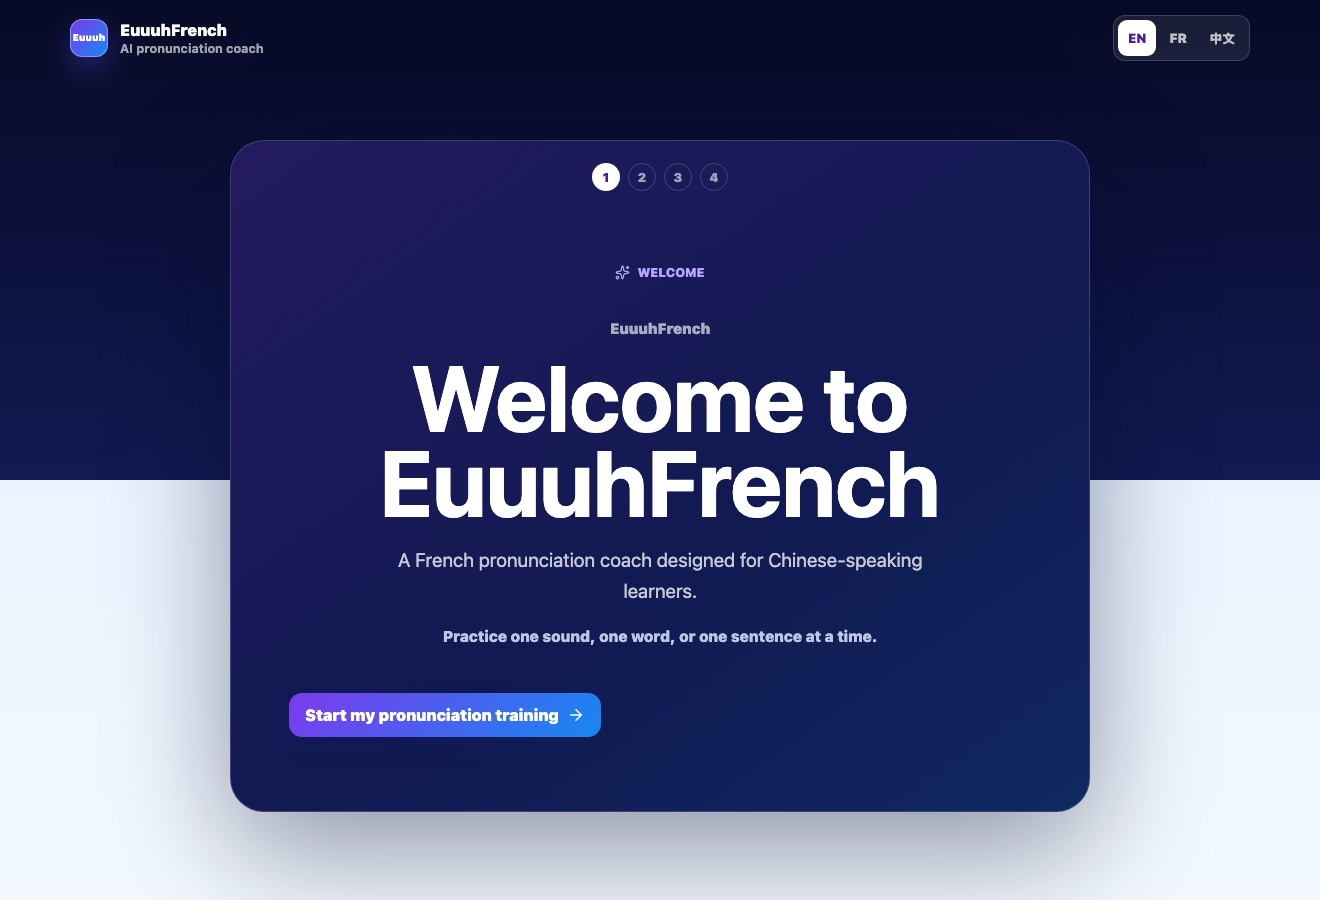
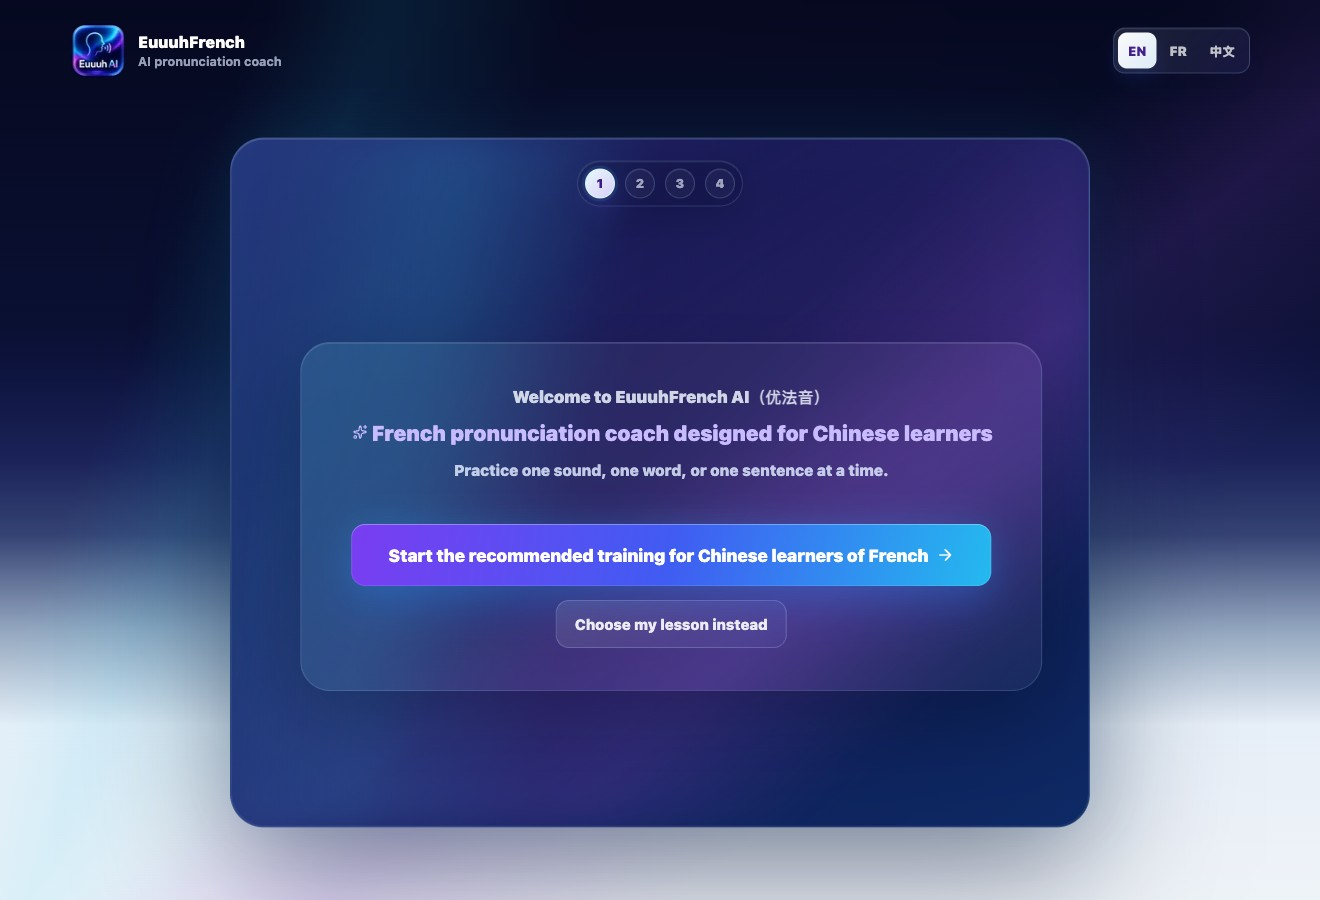
Update EuuuhAI branding and software previews

diff --git a/software.html b/software.html
@@ -4,18 +4,18 @@
   <meta charset="utf-8">
   <meta name="viewport" content="width=device-width, initial-scale=1">
   <meta name="theme-color" content="#0b1220">
-  <meta name="description" content="SIFAKS © Software presents EuuuhFrench, a prototype preview by Sifaks Ousmail for AI-assisted French pronunciation support for Chinese learners of French, connected to applied linguistics, language education, and second language acquisition.">
-  <meta property="og:title" content="SIFAKS © Software | EuuuhFrench">
-  <meta property="og:description" content="EuuuhFrench is an in-development SIFAKS © Software prototype by Sifaks Ousmail for AI-assisted French pronunciation, Chinese learners of French, applied linguistics, language education, and second language acquisition.">
+  <meta name="description" content="SIFAKS © Software presents EuuuhAI for French, a prototype preview by Sifaks Ousmail for AI-assisted French pronunciation training for Chinese native speakers learning French, connected to applied linguistics, language education, and second language acquisition.">
+  <meta property="og:title" content="SIFAKS © Software | EuuuhAI for French">
+  <meta property="og:description" content="EuuuhAI for French is an in-development SIFAKS © Software prototype by Sifaks Ousmail for AI-assisted French pronunciation training, Chinese native speakers learning French, applied linguistics, language education, and second language acquisition.">
   <meta property="og:image" content="https://sifaks.com/favicon.png">
   <meta property="og:type" content="website">
   <meta property="og:url" content="https://sifaks.com/software.html">
   <meta property="og:site_name" content="Sifaks Ousmail">
   <meta name="twitter:card" content="summary">
-  <meta name="twitter:title" content="SIFAKS © Software | EuuuhFrench">
-  <meta name="twitter:description" content="Prototype preview of EuuuhFrench, an AI-assisted French pronunciation tool for Chinese learners of French by Sifaks Ousmail.">
+  <meta name="twitter:title" content="SIFAKS © Software | EuuuhAI for French">
+  <meta name="twitter:description" content="Prototype preview of EuuuhAI for French, an AI-assisted French pronunciation training tool for Chinese native speakers by Sifaks Ousmail.">
   <meta name="twitter:image" content="https://sifaks.com/favicon.png">
-  <title>SIFAKS © Software | EuuuhFrench</title>
+  <title>SIFAKS © Software | EuuuhAI for French</title>
   <link rel="canonical" href="https://sifaks.com/software.html">
   <link rel="icon" href="/favicon.ico" sizes="any">
   <link rel="icon" type="image/png" sizes="32x32" href="/favicon-32x32.png">
@@ -64,7 +64,7 @@
               <a class="drop-item" href="france.html"><span class="flag" aria-hidden="true">🇫🇷</span> France</a>
               <a class="software-drop-cta" href="software.html" aria-current="page">
                 <span class="software-drop-main" data-i18n="nav.softwareCtaTitle">SIFAKS © Software</span>
-                <span class="software-drop-sub" data-i18n="nav.softwareCtaSub">Pronunciation for Chinese learners of French</span>
+                <span class="software-drop-sub" data-i18n="nav.softwareCtaSub">AI French pronunciation for Chinese speakers</span>
               </a>
             </div>
           </div>
@@ -76,9 +76,9 @@
       <header class="hero software-hero">
         <img class="hero-logo" data-no-translate src="/favicon.svg" alt="Sifaks Ousmail logo">
         <h1 class="software-title" data-no-translate>SIFAKS <span class="legal-mark">©</span> Software</h1>
-        <p class="software-product-name" data-no-translate>EuuuhFrench</p>
+        <p class="software-product-name" data-no-translate>EuuuhAI for French</p>
         <div class="pill"><span class="pill-dot"></span><span data-i18n="software.status">Prototype preview · In development</span></div>
-        <p class="lead" data-i18n="software.subtitle">EuuuhFrench — AI-assisted French pronunciation support for Chinese learners</p>
+        <p class="lead" data-i18n="software.subtitle">EuuuhAI for French — AI-assisted French pronunciation training for Chinese native speakers learning French</p>
         <div class="actions">
           <a class="btn btn-primary" href="#preview" data-i18n="software.viewPreview">View preview</a>
           <a class="btn btn-secondary" href="projects.html#software" data-i18n="software.backProjects">Back to projects</a>
@@ -91,7 +91,7 @@
             <p class="kicker" data-i18n="software.aboutKicker">About the project</p>
             <h2 data-i18n="software.aboutTitle">Experimental pronunciation support</h2>
           </div>
-          <p class="section-note" data-i18n="software.aboutText">EuuuhFrench is an experimental language learning tool by Sifaks Ousmail. It explores how AI-assisted feedback, applied linguistics, and language education can support Chinese learners of French pronunciation.</p>
+          <p class="section-note" data-i18n="software.aboutText">EuuuhAI for French is an experimental language learning tool by Sifaks Ousmail. It explores how AI-assisted feedback, applied linguistics, and language education can support French pronunciation training for Chinese native speakers.</p>
         </div>
       </section>
 
@@ -113,8 +113,8 @@
             <p data-i18n="software.cardFeedbackDesc">Exploring how automated feedback can guide learners without replacing teaching or research judgment.</p>
           </article>
           <article class="country-card glass">
-            <p class="edu-degree" data-i18n="software.cardLearners">Chinese learners of French</p>
-            <p data-i18n="software.cardLearnersDesc">Designed around challenges that can appear when Chinese-speaking learners work on French pronunciation.</p>
+            <p class="edu-degree" data-i18n="software.cardLearners">Chinese native speakers learning French</p>
+            <p data-i18n="software.cardLearnersDesc">Designed around challenges that can appear when Chinese native speakers work on French pronunciation.</p>
           </article>
           <article class="country-card glass">
             <p class="edu-degree" data-i18n="software.cardApplied">Applied linguistics and language education</p>
@@ -129,27 +129,27 @@
             <p class="kicker" data-i18n="software.previewKicker">Concept preview</p>
             <h2 data-i18n="software.previewTitle">Prototype learning interface</h2>
           </div>
-          <p class="section-note" data-i18n="software.previewNote">This static preview reflects the EuuuhFrench prototype direction, not a final public release.</p>
+          <p class="section-note" data-i18n="software.previewNote">This static preview reflects the EuuuhAI for French prototype direction, not a final public release.</p>
         </div>
-        <div class="software-preview glass" aria-label="EuuuhFrench prototype preview gallery">
+        <div class="software-preview glass" aria-label="EuuuhAI for French prototype preview gallery">
           <div class="preview-gallery-grid">
             <figure class="preview-gallery-item preview-gallery-main">
               <div class="preview-gallery-frame">
-                <img src="assets/software/euuuhfrench/euuuhfrench-home-preview.jpg" width="1320" height="900" loading="lazy" alt="EuuuhFrench home screen preview" data-i18n-attr="alt:software.galleryHomeAlt">
+                <img src="assets/software/euuuhfrench/euuuhfrench-home-preview.jpg" width="1320" height="900" loading="lazy" alt="EuuuhAI for French English home screen preview" data-i18n-attr="alt:software.galleryHomeAlt">
               </div>
-              <figcaption data-i18n="software.galleryHome">Learning flow preview</figcaption>
+              <figcaption data-i18n="software.galleryHome">English interface preview</figcaption>
             </figure>
             <figure class="preview-gallery-item">
               <div class="preview-gallery-frame">
-                <img src="assets/software/euuuhfrench/euuuhfrench-practice-preview.jpg" width="1320" height="900" loading="lazy" alt="EuuuhFrench pronunciation practice and recording screen preview" data-i18n-attr="alt:software.galleryPracticeAlt">
+                <img src="assets/software/euuuhfrench/euuuhfrench-practice-preview.jpg" width="1320" height="900" loading="lazy" alt="EuuuhAI for French practice screen with word and microphone controls" data-i18n-attr="alt:software.galleryPracticeAlt">
               </div>
-              <figcaption data-i18n="software.galleryPractice">Practice and recording interface</figcaption>
+              <figcaption data-i18n="software.galleryPractice">Word practice and microphone preview</figcaption>
             </figure>
             <figure class="preview-gallery-item">
               <div class="preview-gallery-frame">
-                <img src="assets/software/euuuhfrench/euuuhfrench-feedback-preview.jpg" width="1320" height="900" loading="lazy" alt="EuuuhFrench feedback guidance screen preview" data-i18n-attr="alt:software.galleryFeedbackAlt">
+                <img src="assets/software/euuuhfrench/euuuhfrench-feedback-preview.jpg" width="1320" height="900" loading="lazy" alt="EuuuhAI for French Chinese feedback page preview" data-i18n-attr="alt:software.galleryFeedbackAlt">
               </div>
-              <figcaption data-i18n="software.galleryFeedback">AI-assisted feedback preview</figcaption>
+              <figcaption data-i18n="software.galleryFeedback">Feedback guidance preview</figcaption>
             </figure>
           </div>
           <p class="preview-disclaimer" data-i18n="software.mockDisclaimer">Static prototype preview · real pronunciation analysis is still in development.</p>
@@ -162,14 +162,14 @@
             <p class="kicker" data-i18n="software.researchKicker">Research connection</p>
             <h2 data-i18n="software.researchTitle">Language learning and research</h2>
           </div>
-          <p class="section-note" data-i18n="software.researchText">The project connects to second language acquisition, French as a foreign language, Chinese-speaking learners, pronunciation learning, and AI-supported language education.</p>
+          <p class="section-note" data-i18n="software.researchText">The project connects to second language acquisition, French as a foreign language, Chinese native speakers, pronunciation learning, and AI-supported language education.</p>
         </div>
         <div class="focus-band glass" aria-label="Software research connection">
           <p data-i18n="software.focusTitle">Connected areas</p>
           <div class="focus-tags">
             <span data-i18n="software.focusSla">Second Language Acquisition</span>
             <span data-i18n="software.focusFle">French as a Foreign Language</span>
-            <span data-i18n="software.focusChineseLearners">Chinese-speaking learners</span>
+            <span data-i18n="software.focusChineseLearners">Chinese native speakers</span>
             <span data-i18n="software.focusPronunciation">Pronunciation learning</span>
             <span data-i18n="software.focusAi">AI-supported language education</span>
           </div>
@@ -180,11 +180,14 @@
         <div class="development-status glass">
           <span class="card-kicker" data-i18n="software.statusKicker">Development status</span>
           <p data-i18n="software.statusText">This project is currently in development. The page presents the concept and early direction rather than a public release.</p>
-          <a class="software-app-link" href="https://app.sifaks.com" target="_blank" rel="noopener noreferrer" data-i18n-attr="aria-label:software.appLinkAria" aria-label="Open EuuuhFrench app preview at app.sifaks.com">
-            <span class="euuuh-app-mark" aria-hidden="true"><span data-no-translate>EF</span></span>
+          <a class="software-app-link" href="https://app.sifaks.com" target="_blank" rel="noopener noreferrer" data-i18n-attr="aria-label:software.appLinkAria" aria-label="Open EuuuhAI for French app preview at app.sifaks.com">
+            <span class="euuuh-app-mark" aria-hidden="true">
+              <img class="euuuh-logo-img euuuh-logo-en" src="assets/software/euuuhai/euuuhai-logo-en.png" alt="" width="512" height="512" loading="lazy">
+              <img class="euuuh-logo-img euuuh-logo-cn" src="assets/software/euuuhai/euuuhai-logo-cn.png" alt="" width="512" height="512" loading="lazy">
+            </span>
             <span class="software-app-copy">
-              <strong data-no-translate>EuuuhFrench</strong>
-              <span data-i18n="software.appLinkText">Open the app preview at app.sifaks.com →</span>
+              <strong data-no-translate>EuuuhAI</strong>
+              <span data-i18n="software.appLinkText">Open EuuuhAI for French at app.sifaks.com →</span>
             </span>
           </a>
         </div>

diff --git a/script.js b/script.js
@@ -48,7 +48,7 @@ const translationEntries = [
   ['nav.mainLinks', 'Main links', 'Liens principaux', '主要链接'],
   ['nav.internationalProfile', 'International Profile', 'Profil international', '国际简介'],
   ['nav.softwareCtaTitle', 'SIFAKS © Software', 'SIFAKS © Software', 'SIFAKS © Software'],
-  ['nav.softwareCtaSub', 'Pronunciation for Chinese learners of French', 'Prononciation pour apprenants chinois du français', '面向中文母语法语学习者的发音'],
+  ['nav.softwareCtaSub', 'AI French pronunciation for Chinese speakers', 'Prononciation française IA pour sinophones', '针对中文母语者的AI辅助法语发音训练工具'],
   ['country.china', 'China', 'Chine', '中国'],
   ['country.ukShort', 'UK', 'Royaume-Uni', '英国'],
   ['country.france', 'France', 'France', '法国'],
@@ -154,16 +154,16 @@ const translationEntries = [
   ['projects.multilingual', 'Multilingual Language Education', 'Éducation multilingue', '多语语言教育'],
   ['projects.multilingualDesc', 'Work connecting French, English, and Chinese language learning with broader questions in language education and applied linguistics.', 'Travail reliant l’apprentissage du français, de l’anglais et du chinois à des questions plus larges en éducation aux langues et linguistique appliquée.', '将法语、英语和中文学习与语言教育和应用语言学中的更广泛问题联系起来。'],
   ['projects.software', 'SIFAKS © Software', 'SIFAKS © Software', 'SIFAKS © Software'],
-  ['projects.softwareDesc', 'A short preview of EuuuhFrench, an in-development AI-assisted French pronunciation tool for Chinese learners of French, connected to applied linguistics and language education.', 'Un court aperçu d’EuuuhFrench, un outil de prononciation française assisté par l’IA en développement pour les apprenants chinois du français, relié à la linguistique appliquée et à l’éducation aux langues.', 'EuuuhFrench 的简短预览：一款正在开发中的 AI 辅助法语发音工具，面向中文母语的法语学习者，并与应用语言学和语言教育相关。'],
+  ['projects.softwareDesc', 'A short preview of EuuuhAI for French, an in-development AI-assisted French pronunciation training tool for Chinese native speakers, connected to applied linguistics and language education.', 'Un court aperçu d’EuuuhAI for French, un outil d’entraînement à la prononciation française assisté par l’IA pour les apprenants sinophones, relié à la linguistique appliquée et à l’éducation aux langues.', '优法音 AI（EuuuhAI for French）的简短预览：针对中文母语者的AI辅助法语发音训练工具，并与应用语言学和语言教育相关。'],
   ['projects.softwareLink', 'Open software preview →', 'Ouvrir l’aperçu logiciel →', '打开软件预览 →'],
   ['software.title', 'SIFAKS © Software', 'SIFAKS © Software', 'SIFAKS © Software'],
   ['software.status', 'Prototype preview · In development', 'Aperçu de prototype · En développement', '原型预览 · 开发中'],
-  ['software.subtitle', 'EuuuhFrench — AI-assisted French pronunciation support for Chinese learners', 'EuuuhFrench — soutien à la prononciation française assisté par l’IA pour les apprenants chinois', 'EuuuhFrench — 面向中文母语学习者的 AI 辅助法语发音支持'],
+  ['software.subtitle', 'EuuuhAI for French — AI-assisted French pronunciation training for Chinese native speakers learning French', 'EuuuhAI for French — entraînement à la prononciation française assisté par l’IA pour les apprenants sinophones', '优法音 AI（EuuuhAI for French）— 针对中文母语者的AI辅助法语发音训练工具'],
   ['software.viewPreview', 'View preview', 'Voir l’aperçu', '查看预览'],
   ['software.backProjects', 'Back to projects', 'Retour aux projets', '返回项目'],
   ['software.aboutKicker', 'About the project', 'À propos du projet', '项目介绍'],
   ['software.aboutTitle', 'Experimental pronunciation support', 'Soutien expérimental à la prononciation', '实验性发音支持'],
-  ['software.aboutText', 'EuuuhFrench is an experimental language learning tool by Sifaks Ousmail. It explores how AI-assisted feedback, applied linguistics, and language education can support Chinese learners of French pronunciation.', 'EuuuhFrench est un outil expérimental d’apprentissage des langues par Sifaks Ousmail. Il explore comment le feedback assisté par l’IA, la linguistique appliquée et l’éducation aux langues peuvent soutenir les apprenants chinois dans la prononciation du français.', 'EuuuhFrench 是 Sifaks Ousmail 开发的实验性语言学习工具，探索 AI 辅助反馈、应用语言学和语言教育如何支持中文母语学习者的法语发音。'],
+  ['software.aboutText', 'EuuuhAI for French is an experimental language learning tool by Sifaks Ousmail. It explores how AI-assisted feedback, applied linguistics, and language education can support French pronunciation training for Chinese native speakers.', 'EuuuhAI for French est un outil expérimental d’apprentissage des langues par Sifaks Ousmail. Il explore comment le feedback assisté par l’IA, la linguistique appliquée et l’éducation aux langues peuvent soutenir l’entraînement à la prononciation française des apprenants sinophones.', '优法音 AI（EuuuhAI for French）是 Sifaks Ousmail 开发的实验性语言学习工具，定位为针对中文母语者的AI辅助法语发音训练工具。'],
   ['software.aimsKicker', 'Learning support', 'Soutien à l’apprentissage', '学习支持'],
   ['software.aimsTitle', 'What it aims to help with', 'Ce que l’outil vise à soutenir', '它希望帮助的方面'],
   ['software.aimsNote', 'The prototype focuses on careful, research-informed pronunciation guidance rather than a public product launch.', 'Le prototype se concentre sur un accompagnement de prononciation prudent et informé par la recherche, plutôt que sur le lancement d’un produit public.', '该原型关注谨慎且基于研究的发音指导，而不是公开产品发布。'],
@@ -171,19 +171,19 @@ const translationEntries = [
   ['software.cardPronunciationDesc', 'Focused practice for sounds, rhythm, and pronunciation patterns in French.', 'Une pratique ciblée des sons, du rythme et des schémas de prononciation en français.', '针对法语语音、节奏和发音模式的重点练习。'],
   ['software.cardFeedback', 'AI-assisted feedback', 'Feedback assisté par l’IA', 'AI 辅助反馈'],
   ['software.cardFeedbackDesc', 'Exploring how automated feedback can guide learners without replacing teaching or research judgment.', 'Explorer comment le feedback automatisé peut guider les apprenants sans remplacer l’enseignement ni le jugement de recherche.', '探索自动化反馈如何指导学习者，同时不取代教学和研究判断。'],
-  ['software.cardLearners', 'Chinese learners of French', 'Apprenants chinois du français', '中文母语的法语学习者'],
-  ['software.cardLearnersDesc', 'Designed around challenges that can appear when Chinese-speaking learners work on French pronunciation.', 'Conçu autour des difficultés qui peuvent apparaître lorsque des apprenants sinophones travaillent la prononciation française.', '围绕中文母语学习者练习法语发音时可能遇到的困难进行设计。'],
+  ['software.cardLearners', 'Chinese native speakers learning French', 'Apprenants sinophones du français', '中文母语的法语学习者'],
+  ['software.cardLearnersDesc', 'Designed around challenges that can appear when Chinese native speakers work on French pronunciation.', 'Conçu autour des difficultés qui peuvent apparaître lorsque des apprenants sinophones travaillent la prononciation française.', '围绕中文母语者进行法语发音训练时可能遇到的困难进行设计。'],
   ['software.cardApplied', 'Applied linguistics and language education', 'Linguistique appliquée et éducation aux langues', '应用语言学与语言教育'],
   ['software.cardAppliedDesc', 'Connected to language learning research, pronunciation pedagogy, and multilingual education.', 'Relié à la recherche sur l’apprentissage des langues, à la pédagogie de la prononciation et à l’éducation multilingue.', '与语言学习研究、发音教学和多语教育相关。'],
   ['software.previewKicker', 'Concept preview', 'Aperçu du concept', '概念预览'],
   ['software.previewTitle', 'Prototype learning interface', 'Interface d’apprentissage prototype', '原型学习界面'],
-  ['software.previewNote', 'This static preview reflects the EuuuhFrench prototype direction, not a final public release.', 'Cet aperçu statique reflète l’orientation du prototype EuuuhFrench, et non une version publique finale.', '该静态预览展示 EuuuhFrench 原型方向，并非最终公开版本。'],
-  ['software.galleryHome', 'Learning flow preview', 'Aperçu du parcours d’apprentissage', '学习流程预览'],
-  ['software.galleryPractice', 'Practice and recording interface', 'Interface de pratique et d’enregistrement', '练习与录音界面'],
-  ['software.galleryFeedback', 'AI-assisted feedback preview', 'Aperçu du feedback assisté par l’IA', 'AI 辅助反馈预览'],
-  ['software.galleryHomeAlt', 'EuuuhFrench home screen preview', 'Aperçu de l’écran d’accueil EuuuhFrench', 'EuuuhFrench 首页预览'],
-  ['software.galleryPracticeAlt', 'EuuuhFrench pronunciation practice and recording screen preview', 'Aperçu de l’écran de pratique et d’enregistrement de prononciation EuuuhFrench', 'EuuuhFrench 发音练习和录音界面预览'],
-  ['software.galleryFeedbackAlt', 'EuuuhFrench feedback guidance screen preview', 'Aperçu de l’écran de feedback guidé EuuuhFrench', 'EuuuhFrench 反馈指导界面预览'],
+  ['software.previewNote', 'This static preview reflects the EuuuhAI for French prototype direction, not a final public release.', 'Cet aperçu statique reflète l’orientation du prototype EuuuhAI for French, et non une version publique finale.', '该静态预览展示 EuuuhAI for French 原型方向，并非最终公开版本。'],
+  ['software.galleryHome', 'English interface preview', 'Aperçu de l’interface anglaise', '英文界面预览'],
+  ['software.galleryPractice', 'Word practice and microphone preview', 'Aperçu de la pratique du mot et du micro', '单词练习与麦克风预览'],
+  ['software.galleryFeedback', 'Feedback guidance preview', 'Aperçu du feedback guidé', '反馈指导预览'],
+  ['software.galleryHomeAlt', 'EuuuhAI for French English home screen preview', 'Aperçu de l’écran d’accueil anglais EuuuhAI for French', '优法音 AI（EuuuhAI for French）英文首页预览'],
+  ['software.galleryPracticeAlt', 'EuuuhAI for French practice screen with word and microphone controls', 'Écran de pratique EuuuhAI for French avec mot et commandes du micro', '优法音 AI（EuuuhAI for French）单词练习和麦克风控制界面预览'],
+  ['software.galleryFeedbackAlt', 'EuuuhAI for French Chinese feedback page preview', 'Aperçu de la page de feedback chinoise EuuuhAI for French', '优法音 AI（EuuuhAI for French）中文反馈页面预览'],
   ['software.practiceLabel', 'Practice sentence', 'Phrase d’entraînement', '练习句子'],
   ['software.mockCoach', 'AI pronunciation coach', 'Coach de prononciation IA', 'AI 发音教练'],
   ['software.mockMode', 'Prototype mode', 'Mode prototype', '原型模式'],
@@ -201,17 +201,17 @@ const translationEntries = [
   ['software.stepRetry', 'Try again with clearer guidance', 'Réessayer avec des indications plus claires', '根据更清晰的指导再次尝试'],
   ['software.researchKicker', 'Research connection', 'Lien avec la recherche', '研究关联'],
   ['software.researchTitle', 'Language learning and research', 'Apprentissage des langues et recherche', '语言学习与研究'],
-  ['software.researchText', 'The project connects to second language acquisition, French as a foreign language, Chinese-speaking learners, pronunciation learning, and AI-supported language education.', 'Le projet est relié à l’acquisition des langues secondes, au français langue étrangère, aux apprenants sinophones, à l’apprentissage de la prononciation et à l’éducation aux langues soutenue par l’IA.', '该项目连接第二语言习得、对外法语、中文母语学习者、发音学习和 AI 支持的语言教育。'],
+  ['software.researchText', 'The project connects to second language acquisition, French as a foreign language, Chinese native speakers, pronunciation learning, and AI-supported language education.', 'Le projet est relié à l’acquisition des langues secondes, au français langue étrangère, aux apprenants sinophones, à l’apprentissage de la prononciation et à l’éducation aux langues soutenue par l’IA.', '该项目连接第二语言习得、对外法语、中文母语者、发音学习和 AI 支持的语言教育。'],
   ['software.focusTitle', 'Connected areas', 'Domaines associés', '相关领域'],
   ['software.focusSla', 'Second Language Acquisition', 'Acquisition des langues secondes', '第二语言习得'],
   ['software.focusFle', 'French as a Foreign Language', 'Français langue étrangère', '对外法语'],
-  ['software.focusChineseLearners', 'Chinese-speaking learners', 'Apprenants sinophones', '中文母语学习者'],
+  ['software.focusChineseLearners', 'Chinese native speakers', 'Apprenants sinophones', '中文母语者'],
   ['software.focusPronunciation', 'Pronunciation learning', 'Apprentissage de la prononciation', '发音学习'],
   ['software.focusAi', 'AI-supported language education', 'Éducation aux langues soutenue par l’IA', 'AI 支持的语言教育'],
   ['software.statusKicker', 'Development status', 'Statut de développement', '开发状态'],
   ['software.statusText', 'This project is currently in development. The page presents the concept and early direction rather than a public release.', 'Ce projet est actuellement en développement. Cette page présente le concept et l’orientation initiale plutôt qu’une version publique.', '该项目目前正在开发中。本页展示概念和早期方向，而不是公开发布版本。'],
-  ['software.appLinkText', 'Open the app preview at app.sifaks.com →', 'Ouvrir l’aperçu de l’application sur app.sifaks.com →', '打开 app.sifaks.com 上的应用预览 →'],
-  ['software.appLinkAria', 'Open EuuuhFrench app preview at app.sifaks.com', 'Ouvrir l’aperçu de l’application EuuuhFrench sur app.sifaks.com', '打开 app.sifaks.com 上的 EuuuhFrench 应用预览'],
+  ['software.appLinkText', 'Open EuuuhAI for French at app.sifaks.com →', 'Ouvrir EuuuhAI for French sur app.sifaks.com →', '打开 app.sifaks.com 上的优法音 AI →'],
+  ['software.appLinkAria', 'Open EuuuhAI for French app preview at app.sifaks.com', 'Ouvrir l’aperçu de l’application EuuuhAI for French sur app.sifaks.com', '打开 app.sifaks.com 上的优法音 AI（EuuuhAI for French）应用预览'],
   ['publications.title', 'Publications', 'Publications', '出版物'],
   ['publications.pill', 'My Research', 'Mes recherches', '我的研究'],
   ['publications.lead', 'A space for publications, academic writing, conference work, and research outputs in language policy, language education, and applied linguistics.', 'Un espace pour les publications, l’écriture académique, les communications et les productions de recherche en politique linguistique, éducation aux langues et linguistique appliquée.', '用于展示语言政策、语言教育和应用语言学领域的出版物、学术写作、会议工作和研究成果。'],

diff --git a/styles.css b/styles.css
@@ -537,14 +537,17 @@ h2{font-family:Georgia,serif;font-size:clamp(26px,3.5vw,42px);letter-spacing:0;l
 .preview-disclaimer{margin-top:14px;color:rgba(215,221,232,0.72);font-size:12px;font-weight:800;text-align:center}
 .development-status{padding:22px 24px;background:linear-gradient(180deg,rgba(255,255,255,0.115),rgba(255,255,255,0.04)) padding-box,linear-gradient(180deg,rgba(12,18,31,0.72),rgba(11,17,30,0.55)) padding-box,linear-gradient(135deg,rgba(191,219,254,0.28),rgba(167,139,250,0.18),rgba(125,211,252,0.12)) border-box}
 .development-status p{color:var(--muted);font-size:14px;line-height:1.7}
-.software-app-link{position:relative;display:grid;grid-template-columns:46px minmax(0,1fr);align-items:center;gap:13px;margin-top:16px;padding:12px 14px;border-radius:18px;border:1px solid transparent;background:linear-gradient(180deg,rgba(255,255,255,0.105),rgba(255,255,255,0.038)) padding-box,linear-gradient(180deg,rgba(13,19,32,0.78),rgba(8,12,22,0.58)) padding-box,linear-gradient(135deg,rgba(125,211,252,0.42),rgba(167,139,250,0.28),rgba(125,211,252,0.12)) border-box;color:var(--text);box-shadow:inset 0 1px 0 rgba(255,255,255,0.11),0 16px 42px rgba(0,0,0,0.18),0 0 22px rgba(125,211,252,0.055);transition:transform 0.16s,border-color 0.16s,box-shadow 0.16s}
+.software-app-link{position:relative;display:grid;grid-template-columns:68px minmax(0,1fr);align-items:center;gap:14px;margin-top:16px;padding:12px 14px;border-radius:18px;border:1px solid transparent;background:linear-gradient(180deg,rgba(255,255,255,0.105),rgba(255,255,255,0.038)) padding-box,linear-gradient(180deg,rgba(13,19,32,0.78),rgba(8,12,22,0.58)) padding-box,linear-gradient(135deg,rgba(125,211,252,0.42),rgba(167,139,250,0.28),rgba(125,211,252,0.12)) border-box;color:var(--text);box-shadow:inset 0 1px 0 rgba(255,255,255,0.11),0 16px 42px rgba(0,0,0,0.18),0 0 22px rgba(125,211,252,0.055);transition:transform 0.16s,border-color 0.16s,box-shadow 0.16s}
 .software-app-link::after{content:"";position:absolute;inset:1px;border-radius:inherit;background:linear-gradient(120deg,rgba(125,211,252,0.085),transparent 45%,rgba(167,139,250,0.07));opacity:0.75;pointer-events:none}
 .software-app-link:hover,.software-app-link:focus-visible{transform:translateY(-1px);border-color:rgba(125,211,252,0.28);box-shadow:inset 0 1px 0 rgba(255,255,255,0.14),0 20px 50px rgba(0,0,0,0.24),0 0 26px rgba(125,211,252,0.1);outline:none}
 .software-app-link > *{position:relative;z-index:1}
-.euuuh-app-mark{position:relative;display:grid;place-items:center;width:44px;height:44px;border:1px solid rgba(125,211,252,0.3);border-radius:15px;background:radial-gradient(circle at 32% 24%,rgba(125,211,252,0.32),transparent 38%),linear-gradient(145deg,rgba(13,18,32,0.92),rgba(24,19,47,0.74) 54%,rgba(8,13,25,0.9));box-shadow:inset 0 1px 0 rgba(255,255,255,0.16),0 12px 32px rgba(0,0,0,0.22),0 0 20px rgba(125,211,252,0.12)}
-.euuuh-app-mark::before{content:"";position:absolute;inset:-1px;border-radius:inherit;background:linear-gradient(135deg,rgba(125,211,252,0.44),rgba(167,139,250,0.28),rgba(255,255,255,0.08));opacity:0.78;pointer-events:none;-webkit-mask:linear-gradient(#000 0 0) content-box,linear-gradient(#000 0 0);-webkit-mask-composite:xor;mask-composite:exclude;padding:1px}
-.euuuh-app-mark::after{content:"";position:absolute;inset:9px;border-radius:11px;background:linear-gradient(135deg,rgba(125,211,252,0.11),rgba(167,139,250,0.08));pointer-events:none}
-.euuuh-app-mark span{position:relative;z-index:1;color:rgba(233,246,255,0.96);font-size:13px;font-weight:950;letter-spacing:0.015em;text-shadow:0 0 12px rgba(125,211,252,0.34)}
+.euuuh-app-mark{position:relative;display:grid;place-items:center;isolation:isolate;width:68px;height:68px;border:0;border-radius:20px;background:transparent;box-shadow:none;overflow:visible}
+.euuuh-app-mark::before{display:none}
+.euuuh-app-mark::after{content:"";position:absolute;z-index:0;inset:7px;border-radius:18px;background:radial-gradient(circle at 34% 26%,rgba(125,211,252,0.26),transparent 45%),radial-gradient(circle at 78% 72%,rgba(167,139,250,0.2),transparent 52%);filter:blur(8px);opacity:0.55;pointer-events:none}
+.euuuh-logo-img{position:relative;z-index:1;width:100%;height:100%;max-width:none;object-fit:contain;border-radius:0;clip-path:inset(3px round 18px);transform:none;filter:saturate(1.05) contrast(1.02) drop-shadow(0 0 8px rgba(125,211,252,0.16))}
+.euuuh-logo-cn{display:none}
+html[lang="zh-CN"] .euuuh-logo-en{display:none}
+html[lang="zh-CN"] .euuuh-logo-cn{display:block}
 .software-app-copy{display:grid;gap:3px;min-width:0}
 .software-app-copy strong{font-size:13px;font-weight:950;letter-spacing:0.01em}
 .software-app-copy span{color:rgba(183,193,209,0.9);font-size:12px;font-weight:850;line-height:1.35}
@@ -634,8 +637,9 @@ footer{padding:30px 0 8px;display:flex;align-items:center;justify-content:space-
   .focus-tags{justify-content:flex-start}
   .software-tools-link{grid-template-columns:1fr;gap:8px;padding:18px}
   .software-tools-link .inline-link{padding-top:4px}
-  .software-app-link{grid-template-columns:40px minmax(0,1fr);gap:11px;padding:11px 12px}
-  .euuuh-app-mark{width:40px;height:40px;border-radius:14px}
+  .software-app-link{grid-template-columns:56px minmax(0,1fr);gap:12px;padding:11px 12px}
+  .euuuh-app-mark{width:56px;height:56px;border-radius:17px}
+  .euuuh-logo-img{border-radius:0}
   .software-title .legal-mark{margin-left:-0.12em;margin-right:-0.04em;transform:translate(-0.03em,-0.45em);font-size:0.22em}
   .preview-gallery-grid{grid-template-columns:1fr;gap:14px}
   .preview-gallery-main{grid-column:auto}

diff --git a/projects.html b/projects.html
@@ -64,7 +64,7 @@
               <a class="drop-item" href="france.html"><span class="flag" aria-hidden="true">🇫🇷</span> France</a>
               <a class="software-drop-cta" href="software.html">
                 <span class="software-drop-main" data-i18n="nav.softwareCtaTitle">SIFAKS © Software</span>
-                <span class="software-drop-sub" data-i18n="nav.softwareCtaSub">Pronunciation for Chinese learners of French</span>
+                <span class="software-drop-sub" data-i18n="nav.softwareCtaSub">AI French pronunciation for Chinese speakers</span>
               </a>
             </div>
           </div>
@@ -103,7 +103,7 @@
           </article>
           <article class="country-card glass" id="software">
             <p class="edu-degree">SIFAKS © Software</p>
-            <p>A short preview of EuuuhFrench, an in-development AI-assisted French pronunciation tool for Chinese learners of French, connected to applied linguistics and language education.</p>
+            <p>A short preview of EuuuhAI for French, an in-development AI-assisted French pronunciation training tool for Chinese native speakers, connected to applied linguistics and language education.</p>
             <a class="inline-link" href="software.html">Open software preview →</a>
           </article>
         </div>

diff --git a/background.html b/background.html
@@ -56,7 +56,7 @@
               <a class="drop-item" href="france.html"><span class="flag" aria-hidden="true">🇫🇷</span> France</a>
               <a class="software-drop-cta" href="software.html">
                 <span class="software-drop-main" data-i18n="nav.softwareCtaTitle">SIFAKS © Software</span>
-                <span class="software-drop-sub" data-i18n="nav.softwareCtaSub">Pronunciation for Chinese learners of French</span>
+                <span class="software-drop-sub" data-i18n="nav.softwareCtaSub">AI French pronunciation for Chinese speakers</span>
               </a>
             </div>
           </div>

diff --git a/blog.html b/blog.html
@@ -64,7 +64,7 @@
               <a class="drop-item" href="france.html"><span class="flag" aria-hidden="true">🇫🇷</span> France</a>
               <a class="software-drop-cta" href="software.html">
                 <span class="software-drop-main" data-i18n="nav.softwareCtaTitle">SIFAKS © Software</span>
-                <span class="software-drop-sub" data-i18n="nav.softwareCtaSub">Pronunciation for Chinese learners of French</span>
+                <span class="software-drop-sub" data-i18n="nav.softwareCtaSub">AI French pronunciation for Chinese speakers</span>
               </a>
             </div>
           </div>

diff --git a/china.html b/china.html
@@ -64,7 +64,7 @@
               <a class="drop-item" href="france.html"><span class="flag" aria-hidden="true">🇫🇷</span> France</a>
               <a class="software-drop-cta" href="software.html">
                 <span class="software-drop-main" data-i18n="nav.softwareCtaTitle">SIFAKS © Software</span>
-                <span class="software-drop-sub" data-i18n="nav.softwareCtaSub">Pronunciation for Chinese learners of French</span>
+                <span class="software-drop-sub" data-i18n="nav.softwareCtaSub">AI French pronunciation for Chinese speakers</span>
               </a>
             </div>
           </div>

diff --git a/contact.html b/contact.html
@@ -52,7 +52,7 @@
             <div class="drop-group"><p class="drop-group-title">International Profile</p><a class="drop-item" href="china.html"><span class="flag" aria-hidden="true">🇨🇳</span> China</a><a class="drop-item" href="uk.html"><span class="flag" aria-hidden="true">🇬🇧</span> UK</a><a class="drop-item" href="france.html"><span class="flag" aria-hidden="true">🇫🇷</span> France</a>
               <a class="software-drop-cta" href="software.html">
                 <span class="software-drop-main" data-i18n="nav.softwareCtaTitle">SIFAKS © Software</span>
-                <span class="software-drop-sub" data-i18n="nav.softwareCtaSub">Pronunciation for Chinese learners of French</span>
+                <span class="software-drop-sub" data-i18n="nav.softwareCtaSub">AI French pronunciation for Chinese speakers</span>
               </a></div>
           </div>
         </div>

diff --git a/france.html b/france.html
@@ -64,7 +64,7 @@
               <a class="drop-item active" href="france.html" aria-current="page"><span class="flag" aria-hidden="true">🇫🇷</span> France</a>
               <a class="software-drop-cta" href="software.html">
                 <span class="software-drop-main" data-i18n="nav.softwareCtaTitle">SIFAKS © Software</span>
-                <span class="software-drop-sub" data-i18n="nav.softwareCtaSub">Pronunciation for Chinese learners of French</span>
+                <span class="software-drop-sub" data-i18n="nav.softwareCtaSub">AI French pronunciation for Chinese speakers</span>
               </a>
             </div>
           </div>

diff --git a/index.html b/index.html
@@ -96,7 +96,7 @@
               <a class="drop-item" href="france.html"><span class="flag" aria-hidden="true">🇫🇷</span> France</a>
               <a class="software-drop-cta" href="software.html">
                 <span class="software-drop-main" data-i18n="nav.softwareCtaTitle">SIFAKS © Software</span>
-                <span class="software-drop-sub" data-i18n="nav.softwareCtaSub">Pronunciation for Chinese learners of French</span>
+                <span class="software-drop-sub" data-i18n="nav.softwareCtaSub">AI French pronunciation for Chinese speakers</span>
               </a>
             </div>
           </div>

diff --git a/publications.html b/publications.html
@@ -64,7 +64,7 @@
               <a class="drop-item" href="france.html"><span class="flag" aria-hidden="true">🇫🇷</span> France</a>
               <a class="software-drop-cta" href="software.html">
                 <span class="software-drop-main" data-i18n="nav.softwareCtaTitle">SIFAKS © Software</span>
-                <span class="software-drop-sub" data-i18n="nav.softwareCtaSub">Pronunciation for Chinese learners of French</span>
+                <span class="software-drop-sub" data-i18n="nav.softwareCtaSub">AI French pronunciation for Chinese speakers</span>
               </a>
             </div>
           </div>

diff --git a/research.html b/research.html
@@ -52,7 +52,7 @@
             <div class="drop-group"><p class="drop-group-title">International Profile</p><a class="drop-item" href="china.html"><span class="flag" aria-hidden="true">🇨🇳</span> China</a><a class="drop-item" href="uk.html"><span class="flag" aria-hidden="true">🇬🇧</span> UK</a><a class="drop-item" href="france.html"><span class="flag" aria-hidden="true">🇫🇷</span> France</a>
               <a class="software-drop-cta" href="software.html">
                 <span class="software-drop-main" data-i18n="nav.softwareCtaTitle">SIFAKS © Software</span>
-                <span class="software-drop-sub" data-i18n="nav.softwareCtaSub">Pronunciation for Chinese learners of French</span>
+                <span class="software-drop-sub" data-i18n="nav.softwareCtaSub">AI French pronunciation for Chinese speakers</span>
               </a></div>
           </div>
         </div>